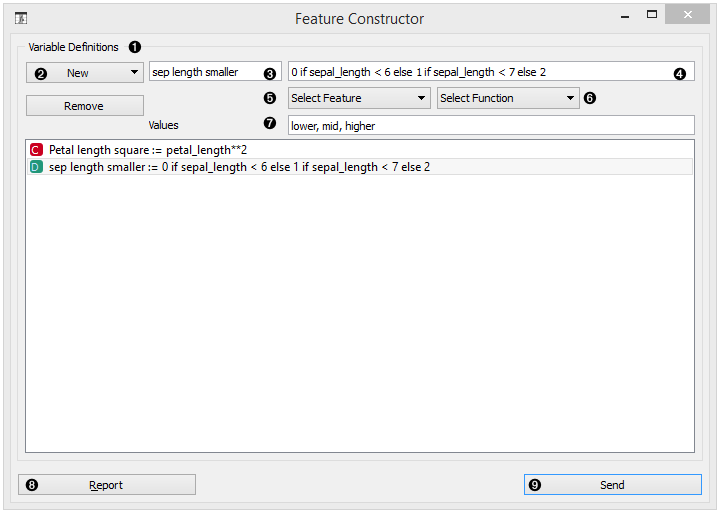
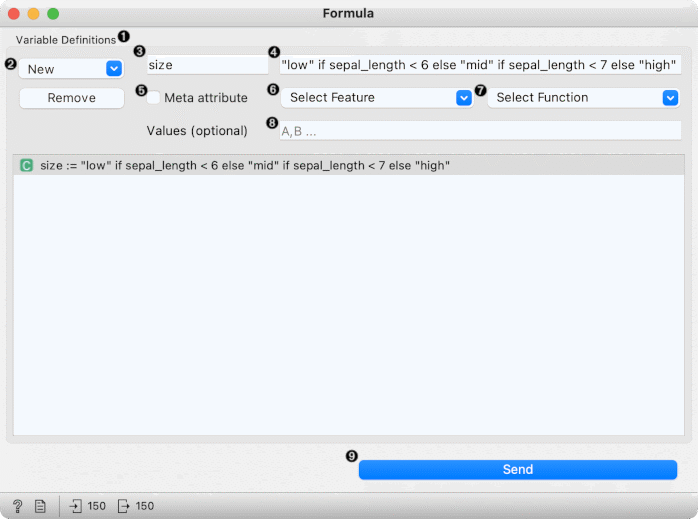
[ENH] Rename Feature Constructor to Formula (#6549)
* Rename Feature Constructor to Formula

* Update widget.json

* feature-constructor2-stamped.png - resize and index

* Formula documentation: Minor changes

* index.rst - fix reference to formula

* move accidentally displaced formula.md

---------

Changed region(s): [[0.0, 0.0, 1.0, 1.0], [0.9928, 0.0936, 1.0, 0.1248]]

diff --git a/source/widgets/data/formula.md b/source/widgets/data/formula.md
@@ -1,0 +1,58 @@
+Formula
+=======
+
+Add new features to your dataset.
+
+**Inputs**
+
+- Data: input dataset
+
+**Outputs**
+
+- Data: dataset with additional features
+
+**Formula** allows computing new columns by combining the existing ones with a user-defined expression. The resulting column can be categorical, numerical or textual.
+
+For numeric variables, it sufices to provide a name and an expression.
+
+![](images/feature-constructor1-stamped.png)
+
+1. List of constructed variables
+2. Add or remove variables
+3. New feature name
+4. Expression in Python
+5. Select a feature
+6. Select a function
+7. Produce a report
+8. Press *Send* to communicate changes
+
+The following example shows construction of a categorical variable: its value is "lower" is "sepal length" is below 6, "mid" if it is at least 6 but below 7, and "higher" otherwise. Note that spaces need to be replaced by underscores (`sepal_length`).
+
+![](images/feature-constructor2-stamped.png)
+
+1. List of variable definitions
+2. Add or remove variables
+3. New feature name
+4. Expression in Python
+5. If checked, the feature is put among meta attributes
+6. Select a feature to use in expression
+7. Select a function to use in expression
+8. Optional list of values, used to define their order
+9. Press *Send* to compute and output data
+
+Hints
+-----
+
+If you are unfamiliar with Python math language, here's a quick introduction.
+
+Expressions can use the following operators:
+- `+`, `-`, `*`, `/`: addition, subtraction, multiplication, division
+- `//`: integer division
+- `%`: remainder after integer division
+- `**`: exponentiation (for square root square by 0.5)
+- `<`, `>`, `<=`, `>=` less than, greater than, less or equal, greater or equal
+- `==` equal
+- `!=` not equal
+- if-else: *value* `if` *condition* else *other-value* (see the above example
+
+See more [here](http://www.tutorialspoint.com/python/python_basic_operators.htm).

diff --git a/source/index.rst b/source/index.rst
@@ -48,7 +48,7 @@ Data
    widgets/data/paintdata
    widgets/data/pivot
    widgets/data/pythonscript
-   widgets/data/featureconstructor
+   widgets/data/formula
    widgets/data/editdomain
    widgets/data/impute
    widgets/data/mergedata
